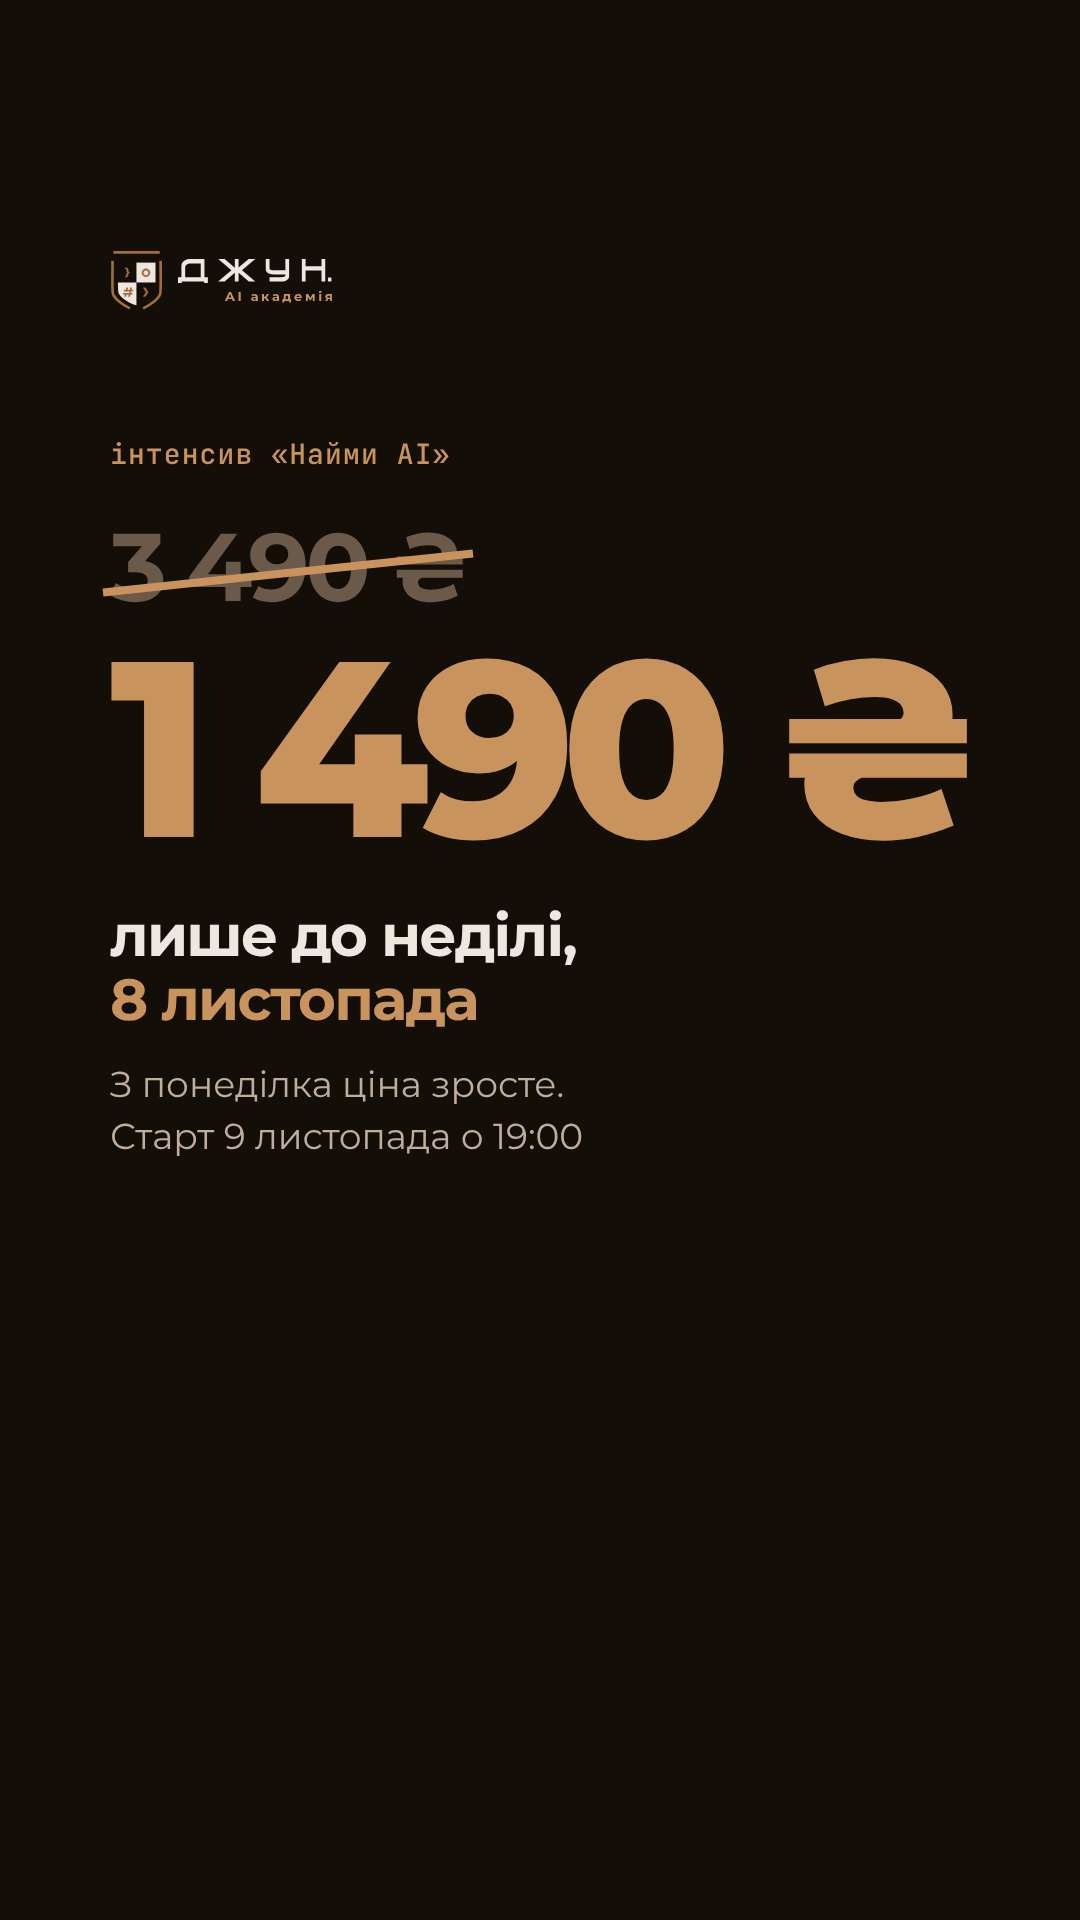
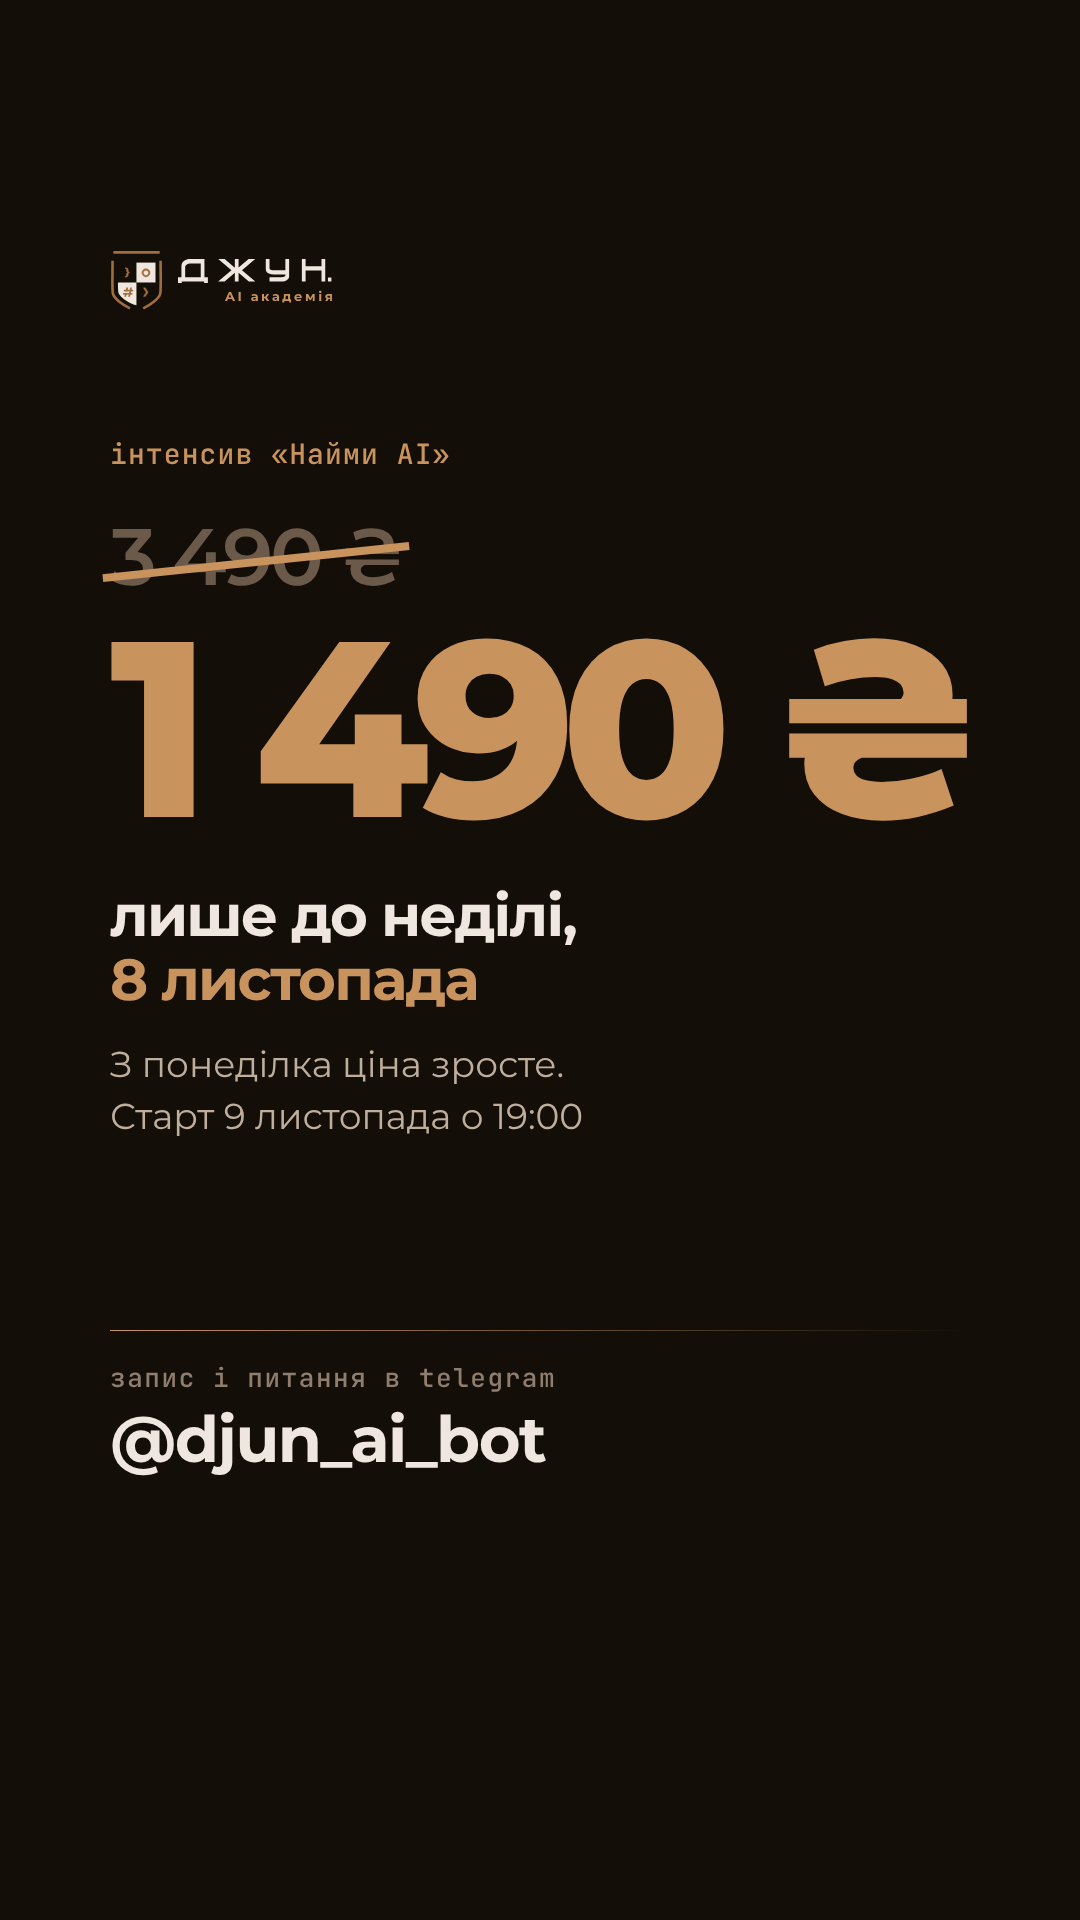
Friday: two stories, bot handle on price story
Claude-Session: https://claude.ai/code/session_01F8vpXYV6V72iEGbNVpHMN7

diff --git a/2026-11-06_stories/fri_price.html b/2026-11-06_stories/fri_price.html
@@ -11,8 +11,14 @@
 h1{font-weight:700;font-size:58px;line-height:1.1;letter-spacing:-.03em;margin-top:44px}
 h1 em{font-style:normal;color:#C9935E}
 p{font:400 36px/1.45 M;color:#BFAE9C;margin-top:26px}
+.tg{position:absolute;left:110px;right:110px;top:1330px}
+.tg .ln{width:100%;height:1px;background:linear-gradient(90deg,#C9935E,rgba(201,147,94,0))}
+.tg span{display:block;font:500 26px/1 J;color:#8f7e6d;letter-spacing:.06em;margin-top:34px}
+.tg b{display:block;font:700 64px/1 M;color:#EFE7DF;letter-spacing:-.025em;margin-top:16px}
+.old{font-weight:600 !important;font-size:80px !important}
 </style><div class="logo"><img src="crest_light.svg" style="height:60px"><div class="w"><img src="letters_light.svg" style="height:25px"><small>AI академія</small></div></div>
 <div class="col"><div class="k">інтенсив «Найми AI»</div>
 <div class="old">3 490 ₴</div><div class="new">1 490 ₴</div>
 <h1>лише до неділі,<br><em>8 листопада</em></h1>
 <p>З понеділка ціна зросте.<br>Старт 9 листопада о 19:00</p></div>
+<div class="tg"><div class="ln"></div><span>запис і питання в telegram</span><b>@djun_ai_bot</b></div>
